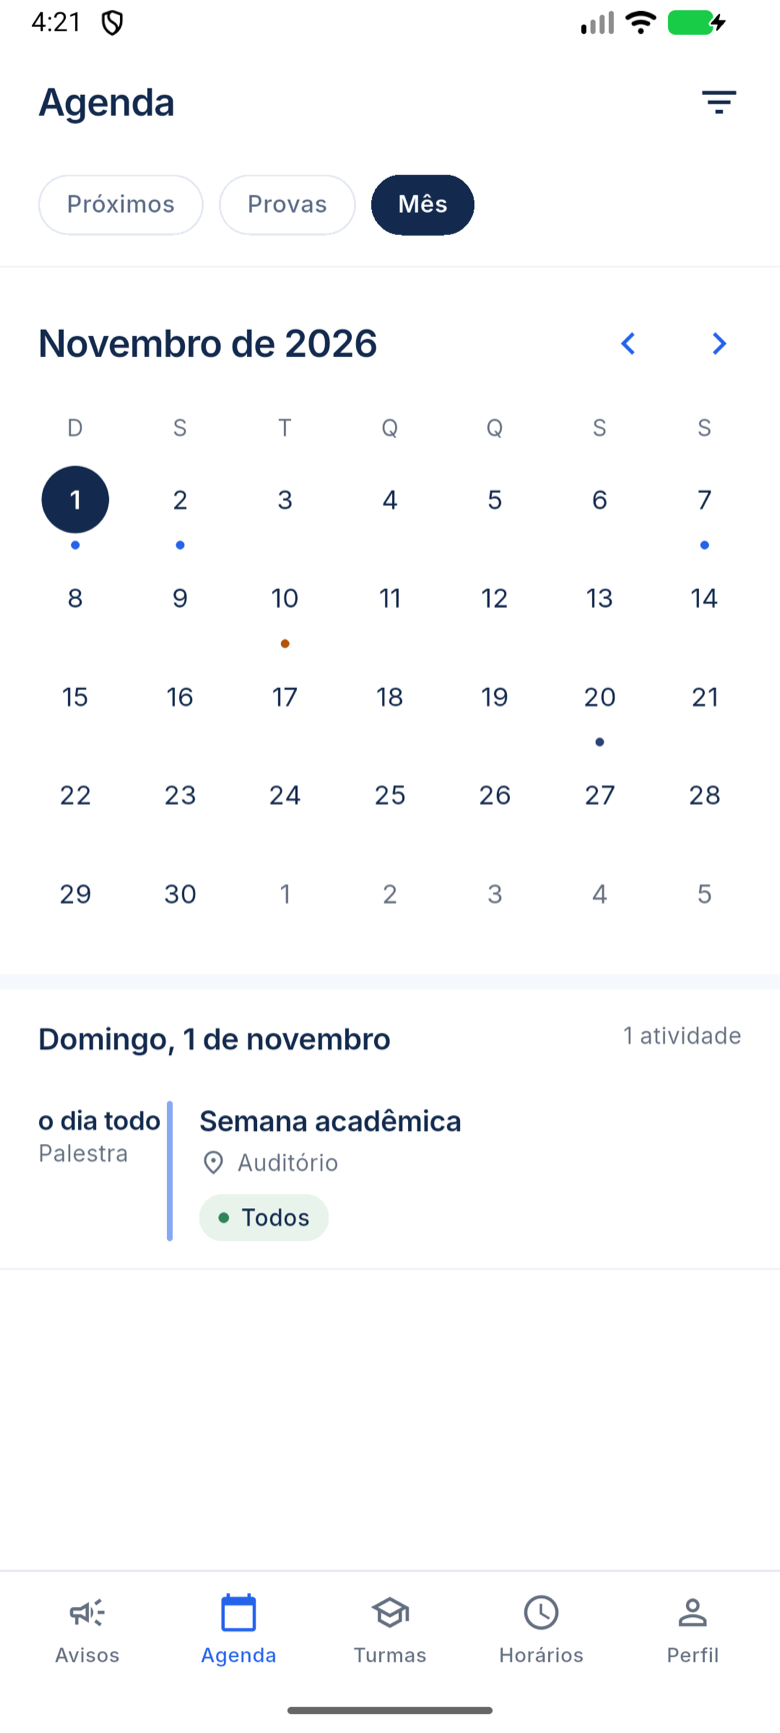
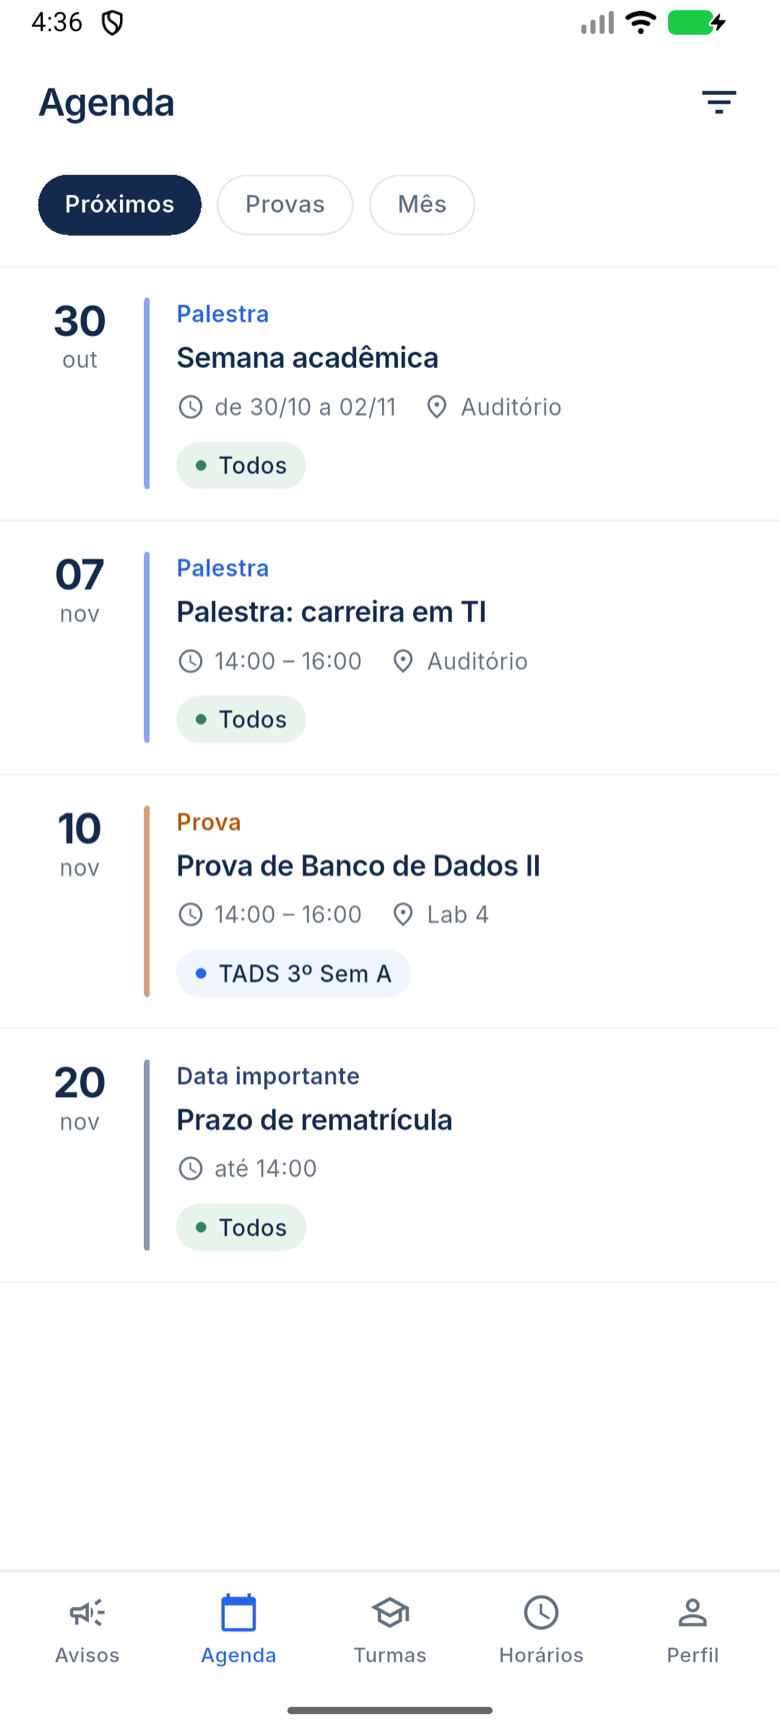
F2 app, horários: achados da revisão
Captura m-10 refeita (tinha saído a visão de mês); a faixa de dados guardados
não passa de uma turma para outra; o número do pedido vem antes de lembrar a
turma escolhida; aviso de 403/404 por ouvinte do controller, fora do build;
colunas de data, dia e horário crescem na proporção do texto (escala não linear
do Android 14+); botão da turma com dica para o leitor de tela. Testes da turma
lembrada esquecida, da SnackBar e da faixa. Limite de 20 turmas registrado.

diff --git a/projeto-mobile/test/widget/horarios_page_test.dart b/projeto-mobile/test/widget/horarios_page_test.dart
@@ -1,7 +1,10 @@
+import 'dart:async';
+
 import 'package:conecta/services/cache_local.dart';
 import 'package:conecta/ui/comum/faixa_cache.dart';
 import 'package:flutter/material.dart';
 import 'package:flutter_test/flutter_test.dart';
+import 'package:http/http.dart' as http;
 
 import '../apoio.dart';
 import '../fixtures/fabrica.dart';
@@ -157,7 +160,13 @@ void main() {
 
     await abrirHorarios(tester);
 
-    expect(find.text('Você não está mais nesta turma.'), findsOneWidget);
+    expect(
+      find.descendant(
+        of: find.byType(SnackBar),
+        matching: find.text('Você não está mais nesta turma.'),
+      ),
+      findsOneWidget,
+    );
     expect(find.text('Algoritmos'), findsOneWidget);
     expect(find.text('Turma SI-3B'), findsOneWidget);
   });
@@ -182,7 +191,14 @@ void main() {
     await abrirHorarios(tester);
 
     // No aviso breve e no erro da grade: a única turma da lista não responde mais.
-    expect(find.text('Esta turma não está mais disponível.'), findsWidgets);
+    expect(
+      find.descendant(
+        of: find.byType(SnackBar),
+        matching: find.text('Esta turma não está mais disponível.'),
+      ),
+      findsOneWidget,
+    );
+    expect(find.text('Tentar de novo'), findsOneWidget);
   });
 
   testWidgets('sem rede: a grade guardada da turma, com a faixa', (tester) async {
@@ -203,5 +219,74 @@ void main() {
     app.api.falharRede('GET /turmas/minhas');
     await abrirHorarios(tester);
     expect(find.text('Tentar de novo'), findsOneWidget);
+  });
+
+  testWidgets('403/404 esquecem a turma lembrada (D-AF2-7)', (tester) async {
+    await app.cache.gravar(usuario, RecursoCache.horariosTurma, {'turma_id': 'turma-SI-3A'});
+    app.api.responder('GET /turmas/minhas', paginaJson([si3a]));
+    app.api.responder('GET /turmas/turma-SI-3A/horarios', erroTurma, 404);
+
+    await abrirHorarios(tester);
+
+    expect(app.cache.ler(usuario, RecursoCache.horariosTurma), isNull);
+  });
+
+  testWidgets('sem rede: a faixa da grade guardada não fica na turma que não tem cache', (
+    tester,
+  ) async {
+    app.api.responder('GET /turmas/minhas', paginaJson([si3a, si3b]));
+    app.api.responder('GET /turmas/turma-SI-3A/horarios', paginaJson(gradeA));
+    await abrirHorarios(tester);
+
+    app.api.falharRede('GET /turmas/minhas');
+    app.api.falharRede('GET /turmas/turma-SI-3A/horarios');
+    app.api.falharRede('GET /turmas/turma-SI-3B/horarios');
+    await tester.pumpWidget(const SizedBox());
+    await abrirHorarios(tester);
+    expect(find.byType(FaixaCache), findsOneWidget);
+
+    await tester.tap(find.byKey(const Key('trocar-turma')));
+    await tester.pumpAndSettle();
+    await tester.tap(find.text('SI-3B — Sistemas para Internet 3B'));
+    await tester.pumpAndSettle();
+
+    expect(find.byType(FaixaCache), findsNothing);
+    expect(find.text('Tentar de novo'), findsOneWidget);
+  });
+
+  testWidgets(
+    'trocar de turma: a grade da turma anterior, que chega depois, é descartada',
+    (tester) async {
+      final atrasada = Completer<http.Response>();
+      app.api.responder('GET /turmas/minhas', paginaJson([si3a, si3b]));
+      app.api.rotasAssincronas['GET /turmas/turma-SI-3A/horarios'] = (_) => atrasada.future;
+      app.api.responder(
+        'GET /turmas/turma-SI-3B/horarios',
+        paginaJson([aulaMapa('b1', turmaId: 'turma-SI-3B', disciplina: 'Algoritmos')]),
+      );
+
+      await abrirHorarios(tester);
+      await tester.tap(find.byKey(const Key('trocar-turma')));
+      await tester.pumpAndSettle();
+      await tester.tap(find.text('SI-3B — Sistemas para Internet 3B'));
+      await tester.pumpAndSettle();
+      atrasada.complete(respostaJson(paginaJson(gradeA)));
+      await tester.pumpAndSettle();
+
+      expect(find.text('Turma SI-3B'), findsOneWidget);
+      expect(find.text('Algoritmos'), findsOneWidget);
+      expect(find.text('Banco de Dados II'), findsNothing);
+    },
+  );
+
+  testWidgets('o botão da turma diz ao leitor de tela que troca a turma', (tester) async {
+    app.api.responder('GET /turmas/minhas', paginaJson([si3a, si3b]));
+    app.api.responder('GET /turmas/turma-SI-3A/horarios', paginaJson(gradeA));
+    final semantica = tester.ensureSemantics();
+
+    await abrirHorarios(tester);
+
+    expect(tester.getSemantics(find.byKey(const Key('trocar-turma'))).hint, 'Trocar de turma');
+    semantica.dispose();
   });
 }

diff --git a/projeto-mobile/lib/ui/horarios/horarios_page.dart b/projeto-mobile/lib/ui/horarios/horarios_page.dart
@@ -9,6 +9,7 @@ import '../../state/horarios_controller.dart';
 import '../../state/session_controller.dart';
 import '../../theme/cores.dart';
 import '../../theme/tipografia.dart';
+import '../comum/escala.dart';
 import '../comum/esqueleto_lista.dart';
 import '../comum/estado_erro.dart';
 import '../comum/estado_vazio.dart';
@@ -45,19 +46,38 @@ class HorariosPage extends StatelessWidget {
   }
 }
 
-class _Horarios extends StatelessWidget {
+class _Horarios extends StatefulWidget {
   const _Horarios();
+
+  @override
+  State<_Horarios> createState() => _HorariosState();
+}
+
+class _HorariosState extends State<_Horarios> {
+  late final HorariosController _controller = context.read<HorariosController>();
+
+  @override
+  void initState() {
+    super.initState();
+    _controller.addListener(_mostrarAviso);
+  }
+
+  @override
+  void dispose() {
+    _controller.removeListener(_mostrarAviso);
+    super.dispose();
+  }
+
+  /// 403/404 da grade: um aviso breve, fora do build; a tela já recarregou as turmas.
+  void _mostrarAviso() {
+    final aviso = _controller.consumirAviso();
+    if (aviso == null || !mounted) return;
+    ScaffoldMessenger.of(context).showSnackBar(SnackBar(content: Text(aviso)));
+  }
 
   @override
   Widget build(BuildContext context) {
     final controller = context.watch<HorariosController>();
-    // 403/404 da grade: um aviso breve; a tela já recarregou as turmas.
-    final aviso = controller.consumirAviso();
-    if (aviso != null) {
-      WidgetsBinding.instance.addPostFrameCallback(
-        (_) => ScaffoldMessenger.of(context).showSnackBar(SnackBar(content: Text(aviso))),
-      );
-    }
     return Scaffold(
       appBar: AppBar(title: const Text('Horários'), toolbarHeight: 60, titleSpacing: 20),
       body: switch (controller.estado) {
@@ -102,21 +122,27 @@ class _Conteudo extends StatelessWidget {
                 Text(turma.nome, style: Tipografia.apoio),
                 const SizedBox(height: 12),
                 if (variasTurmas)
-                  OutlinedButton.icon(
-                    key: const Key('trocar-turma'),
-                    onPressed: () async {
-                      final escolhida = await escolherTurma(
-                        context,
-                        controller.turmas,
-                        controller.turma,
-                      );
-                      if (escolhida != null && escolhida.id != turma.id) {
-                        await controller.escolher(escolhida);
-                      }
-                    },
-                    iconAlignment: IconAlignment.end,
-                    icon: const Icon(Icons.arrow_forward, size: 18),
-                    label: Text('Turma ${turma.codigo}'),
+                  // O leitor de tela ouve o que o botão faz, não só o código da turma.
+                  MergeSemantics(
+                    child: Semantics(
+                      hint: 'Trocar de turma',
+                      child: OutlinedButton.icon(
+                        key: const Key('trocar-turma'),
+                        onPressed: () async {
+                          final escolhida = await escolherTurma(
+                            context,
+                            controller.turmas,
+                            controller.turma,
+                          );
+                          if (escolhida != null && escolhida.id != turma.id) {
+                            await controller.escolher(escolhida);
+                          }
+                        },
+                        iconAlignment: IconAlignment.end,
+                        icon: const Icon(Icons.arrow_forward, size: 18),
+                        label: Text('Turma ${turma.codigo}'),
+                      ),
+                    ),
                   )
                 else
                   Text('Turma ${turma.codigo}', style: Tipografia.tituloCartao),
@@ -178,7 +204,7 @@ class _Dia extends StatelessWidget {
         // A coluna acompanha a fonte do sistema, para a sigla nunca quebrar (RM-36); a mesma
         // largura em todos os dias mantém as barras alinhadas.
         SizedBox(
-          width: MediaQuery.textScalerOf(context).scale(56),
+          width: larguraEscalada(context, 56, Tipografia.meta.fontSize!),
           child: Padding(
             padding: const EdgeInsets.only(top: 2),
             // A sigla é visual; o leitor de tela ouve o dia por extenso.

diff --git a/projeto-mobile/lib/state/horarios_controller.dart b/projeto-mobile/lib/state/horarios_controller.dart
@@ -80,6 +80,7 @@ class HorariosController extends ChangeNotifier {
     if (possiveis.isEmpty) {
       turma = turmas.first;
       estadoDaGrade = EstadoLista.erro;
+      dadosDe = null;
       falha = const ApiFailure(code: 'TURMA_NAO_ENCONTRADA');
       mensagemDaGrade = _ultimaPerda;
       notifyListeners();
@@ -91,9 +92,13 @@ class HorariosController extends ChangeNotifier {
   }
 
   Future<void> escolher(TurmaVinculada nova) async {
+    // O número do pedido vem antes de qualquer espera: uma resposta da turma anterior que chegue
+    // durante o `lembrarTurma` já é descartada.
+    final pedido = ++_pedido;
     turma = nova;
     await _horarios.lembrarTurma(usuarioId, nova.id);
-    await _carregarGrade(++_pedido);
+    if (pedido != _pedido) return;
+    await _carregarGrade(pedido);
   }
 
   /// "Tentar de novo" da faixa ou do erro: as turmas e a grade.
@@ -104,6 +109,8 @@ class HorariosController extends ChangeNotifier {
     estadoDaGrade = EstadoLista.carregando;
     falha = null;
     mensagemDaGrade = null;
+    // A faixa de dados guardados é da grade anterior: outra turma pode não ter cache.
+    dadosDe = null;
     notifyListeners();
     try {
       // Sem rede nas turmas, nem tenta a grade: vai direto ao que estava guardado.

diff --git a/projeto-mobile/lib/ui/agenda/evento_card.dart b/projeto-mobile/lib/ui/agenda/evento_card.dart
@@ -4,6 +4,7 @@ import '../../models/evento.dart';
 import '../../theme/cores.dart';
 import '../../theme/tipografia.dart';
 import '../comum/chip_destino.dart';
+import '../comum/escala.dart';
 import 'calendario.dart';
 
 /// Item de Próximos e Provas (design m-10): data à esquerda (só no primeiro evento do dia), barra
@@ -40,7 +41,7 @@ class EventoCard extends StatelessWidget {
                 children: [
                   // Acompanha a fonte do sistema: a data não quebra em "3 / 0" (RM-36).
                   SizedBox(
-                    width: MediaQuery.textScalerOf(context).scale(44),
+                    width: larguraEscalada(context, 44, Tipografia.tituloGrande.fontSize!),
                     child: mostrarData
                         ? Column(
                             children: [

diff --git a/projeto-mobile/lib/ui/agenda/mes_view.dart b/projeto-mobile/lib/ui/agenda/mes_view.dart
@@ -7,6 +7,7 @@ import '../../state/mes_controller.dart';
 import '../../theme/cores.dart';
 import '../../theme/tipografia.dart';
 import '../comum/chip_destino.dart';
+import '../comum/escala.dart';
 import '../comum/esqueleto_lista.dart';
 import '../comum/estado_erro.dart';
 import '../comum/faixa_cache.dart';
@@ -290,7 +291,7 @@ class _ItemDoDia extends StatelessWidget {
               children: [
                 // Acompanha a fonte do sistema: "o dia todo" não quebra (RM-36).
                 SizedBox(
-                  width: MediaQuery.textScalerOf(context).scale(68),
+                  width: larguraEscalada(context, 68, Tipografia.tituloCartao.fontSize!),
                   child: Column(
                     crossAxisAlignment: CrossAxisAlignment.start,
                     children: [

diff --git a/projeto-mobile/lib/ui/comum/escala.dart b/projeto-mobile/lib/ui/comum/escala.dart
@@ -1,0 +1,7 @@
+import 'package:flutter/widgets.dart';
+
+/// Largura de uma coluna de texto que cresce na mesma proporção que a fonte dela (RM-36). Com a
+/// escala não linear do Android 14+, `scale(largura)` cresceria menos que o texto: a proporção é
+/// a do tamanho da fonte da coluna.
+double larguraEscalada(BuildContext context, double largura, double tamanhoDaFonte) =>
+    largura * MediaQuery.textScalerOf(context).scale(tamanhoDaFonte) / tamanhoDaFonte;

diff --git a/projeto-mobile/evidencias/RELATORIO-F2.md b/projeto-mobile/evidencias/RELATORIO-F2.md
@@ -9,7 +9,7 @@ A saída das verificações está em [`testes-app-2026-11-01.txt`](testes-app-20
 | Verificação | Como | Resultado |
 |---|---|---|
 | Análise estática | `flutter analyze` | sem problemas |
-| Unidade e widget | `flutter test` | 344 testes, todos passam |
+| Unidade e widget | `flutter test` | 348 testes, todos passam |
 | Integração no aparelho | `flutter test integration_test -d emulator-5554` (Android 16, emulador), servidor falso no contrato da E3 | 22 testes em 9 arquivos, todos passam |
 | Mensagens de erro | `test/unit/mensagens_spec_test.dart` contra a tabela da spec §6, agora com `EVENTO_NAO_ENCONTRADO` | spec e app iguais |
 | Sem rede (T085, SC-005) | `integration_test/offline_test.dart`: depois de visitar as abas, o app é reaberto sem servidor | Próximos, o mês corrente, o detalhe (com o evento que veio da lista) e a grade da turma abrem com o que estava guardado e a faixa com a data |
@@ -34,6 +34,17 @@ A saída das verificações está em [`testes-app-2026-11-01.txt`](testes-app-20
 - **Grade com 403 numa turma que a lista ainda traz:** a tela não fica dando voltas. Cada turma que
   respondeu 403 ou 404 não é escolhida de novo na mesma rodada, e o erro mostra a mensagem própria
   ("Você não está mais nesta turma.").
+- **Revisão independente:**
+  - **Captura errada:** a m-10 tinha saído na visão de mês; foi refeita.
+  - **Faixa de dados guardados:** não passa mais de uma turma para outra.
+  - **Troca de turma:** o número do pedido vem antes de lembrar a escolha.
+  - **Aviso breve:** sai de um ouvinte do controller, fora do `build`.
+  - **Colunas:** crescem na proporção do texto (escala não linear do Android 14+).
+  - **Botão da turma:** diz ao leitor de tela que troca a turma.
+  - **Testes:** cobrem a turma lembrada esquecida no 403/404 e a SnackBar de fato.
+
+**Limite conhecido:** Horários lista só a primeira página das turmas (20), o bastante para aluno e
+docente do curso.
 
 ## Telas comparadas com o design (T087)
 

diff --git a/projeto-mobile/README.md b/projeto-mobile/README.md
@@ -68,7 +68,7 @@ Atualizado em 01/11/2026.
 | 11. US6b — Horários | Aba Horários: grade da turma por dia (m-12), troca de turma com a escolha lembrada, mensagens próprias quando o vínculo some, grade guardada por turma | ✅ [#29](https://github.com/ruansbueno/conecta/pull/29) |
 | 12. Polimento da F2 | Sem rede na agenda e na grade, fonte a 200% conferida no aparelho, leitor de tela, comparação com o design | ✅ [#29](https://github.com/ruansbueno/conecta/pull/29) |
 
-**Testes**: 344 de unidade e de widget (`flutter test`), mais 22 de integração no aparelho com servidor falso
+**Testes**: 348 de unidade e de widget (`flutter test`), mais 22 de integração no aparelho com servidor falso
 em `integration_test/`.
 
 ## Como rodar

diff --git a/projeto-mobile/specs/001-app-conecta/plan-f2.md b/projeto-mobile/specs/001-app-conecta/plan-f2.md
@@ -119,7 +119,7 @@ que `GET /turmas/minhas` devolve.
   - Aberto de fora da lista (link direto), mostra o esqueleto até a resposta.
 
 - **D-AF2-6 — Horários (m-12).**
-  - **Turmas:** vêm de `GET /turmas/minhas`, do cache da aba Turmas.
+  - **Turmas:** vêm de `GET /turmas/minhas`, do cache da aba Turmas. Só a primeira página (20 turmas): limite conhecido, folgado para aluno e docente do curso.
   - **Sem vínculo:** estado vazio "A grade aparece depois do vínculo com uma turma." (cenário 5 da
     US6).
   - **Com um vínculo:** o código da turma aparece como texto.
